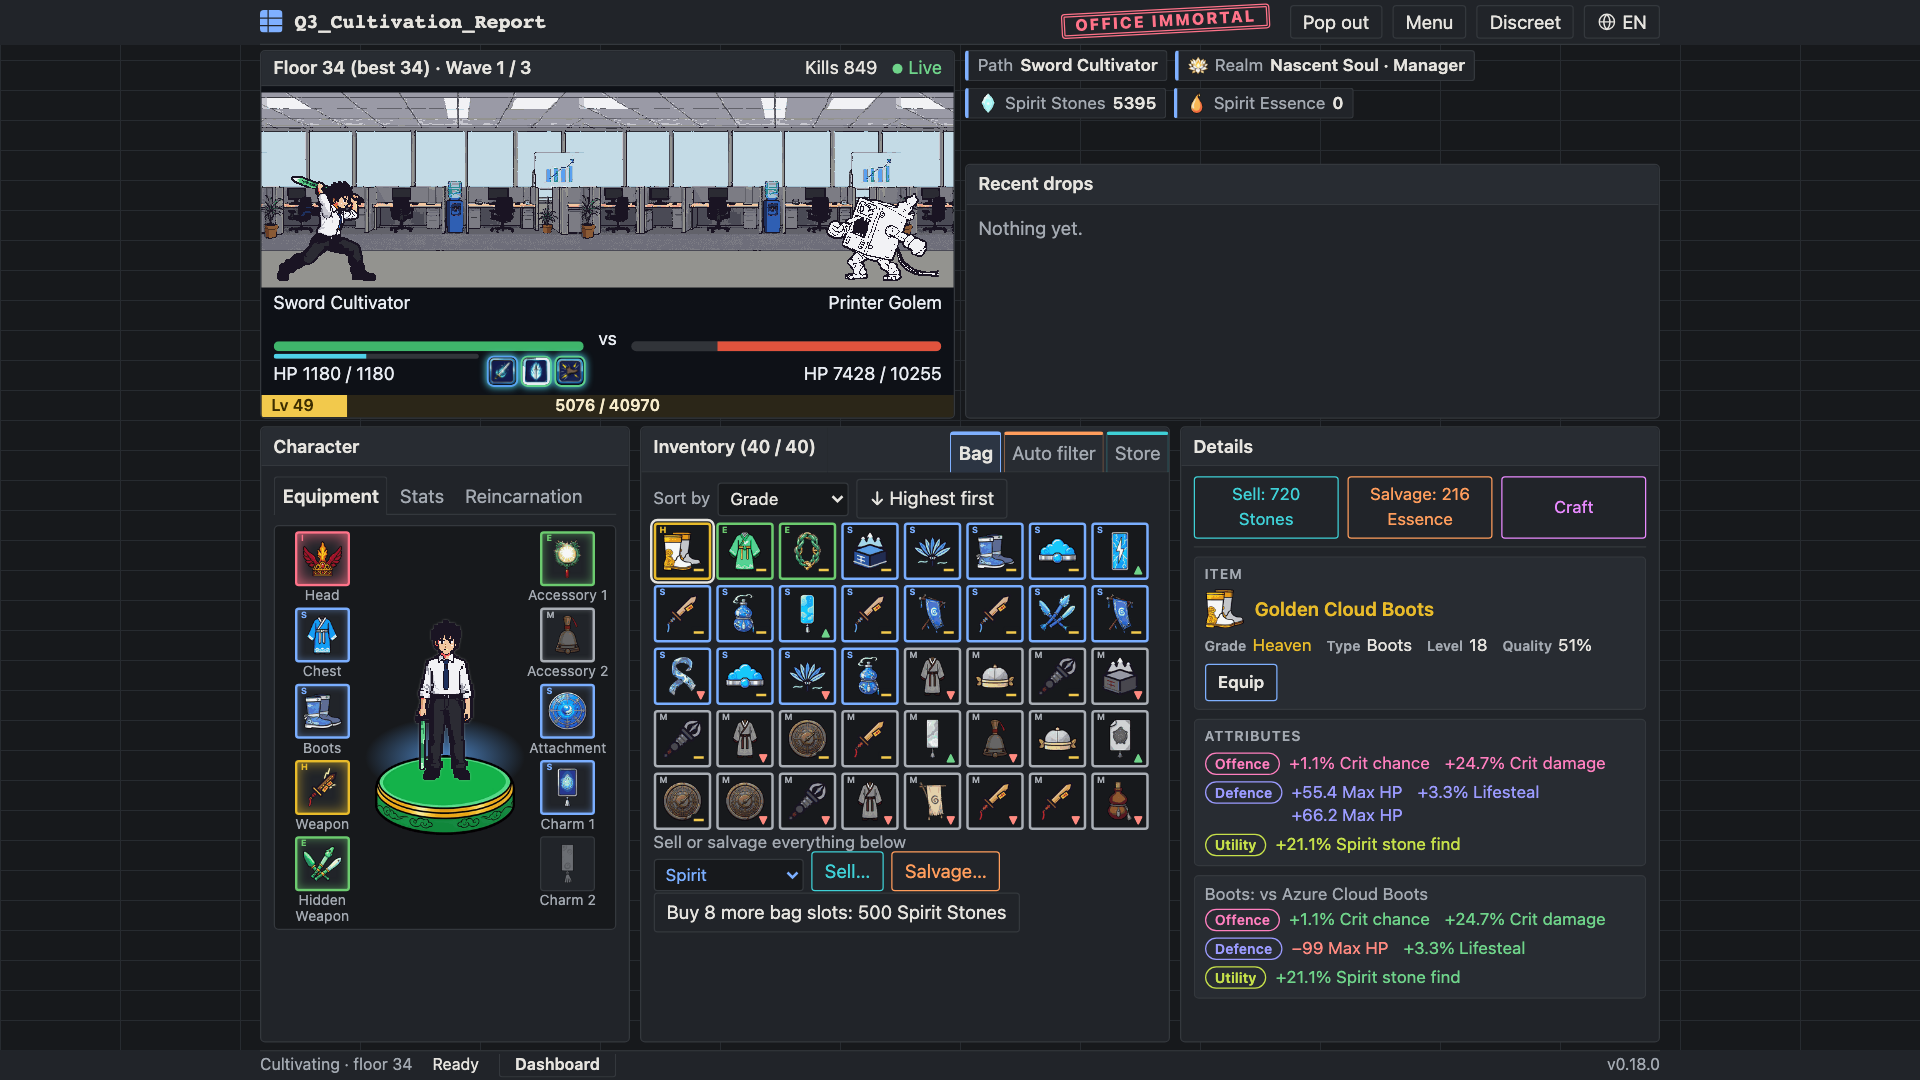
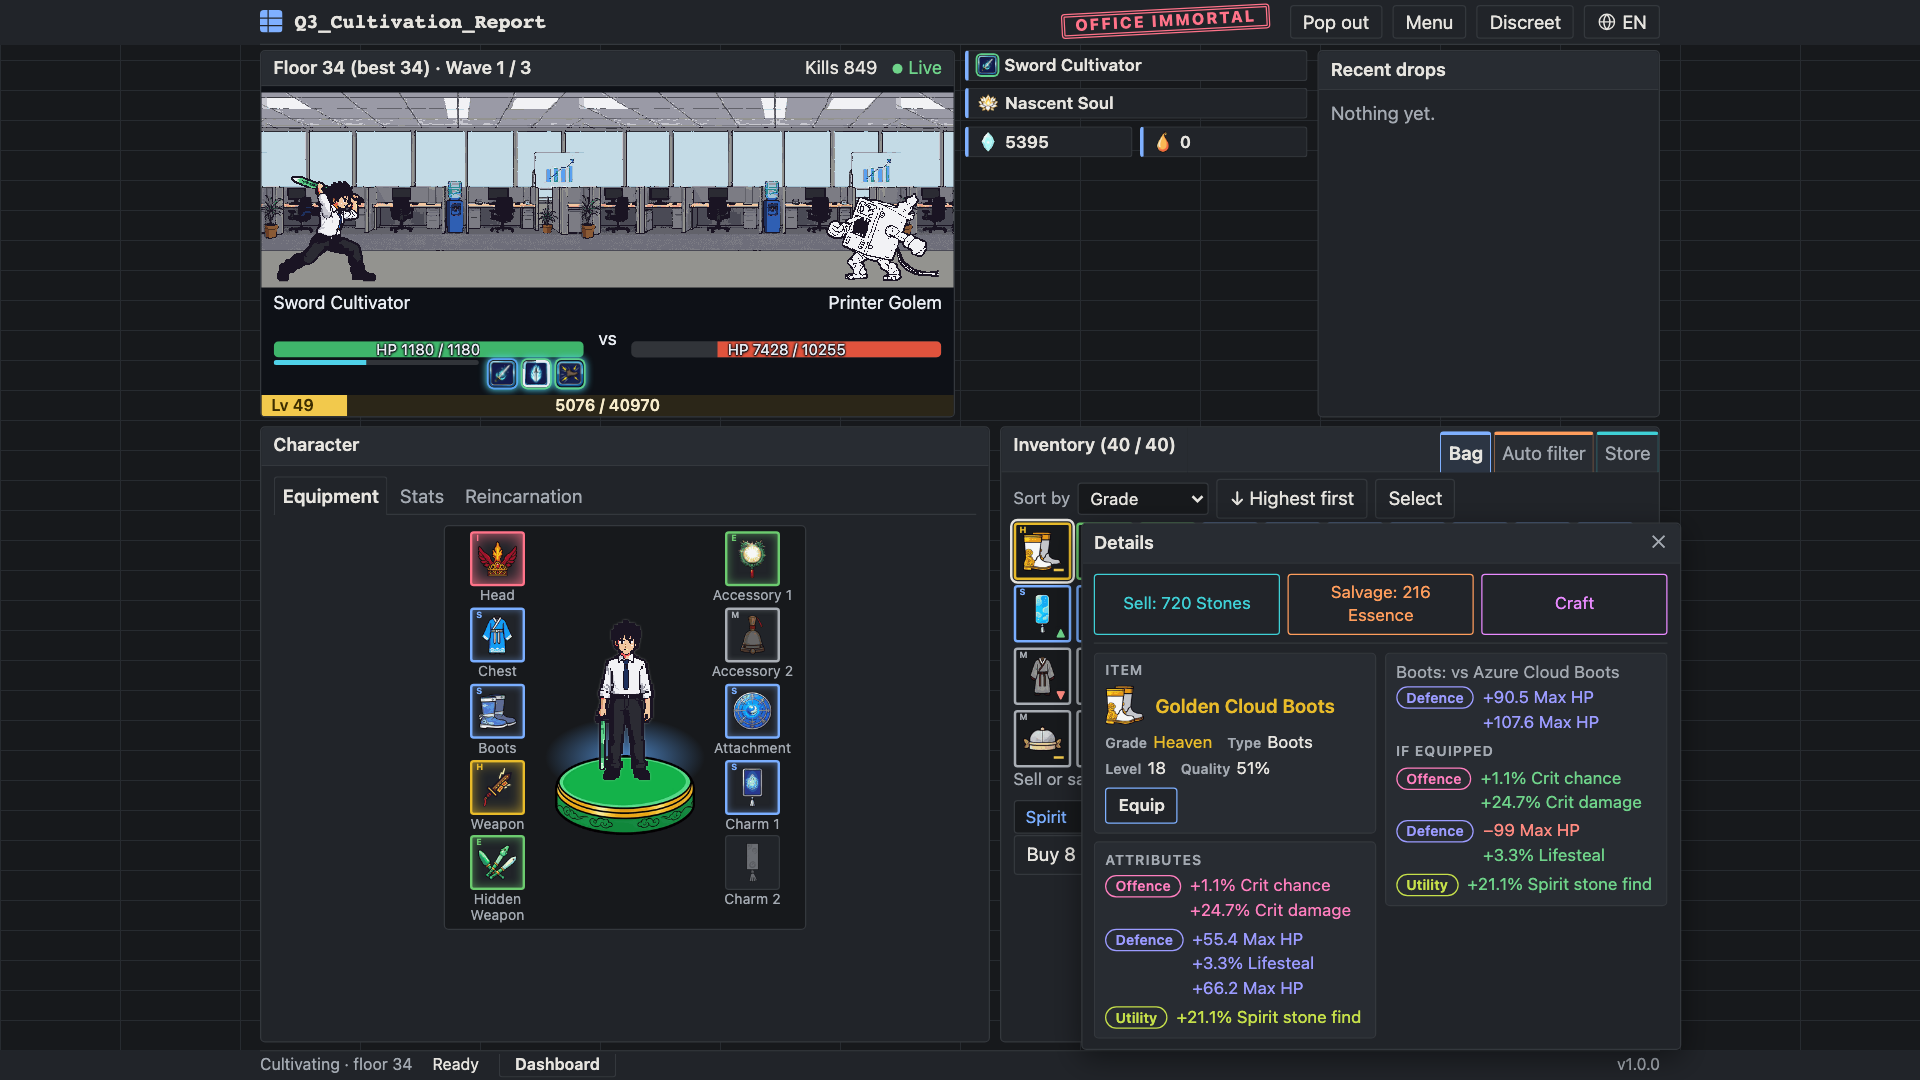
OI-087 Version 1.0.0 for the itch.io Public launch (#188)
- Version 1.0.0 in package.json and package-lock.json.
- README: play links for itch.io (released version) and GitHub Pages
  (latest main), a 1.0.0 status line, and the features shipped since the
  v1 build order (skills, Store, Discreet mode, English and Vietnamese,
  save backup). Release tag example is v1.0.0.
- Store screenshots and the auto-battle GIF retaken from the 1.0.0 build
  (they showed v0.18.0 and the old layout).
- Trailer script: the inventory scene clicks the bag's first column, which
  the item card leaves visible (it covered cell 9, so the click timed out).
  Filming stops even when a scene fails, so a late frame no longer crashes
  after the frame folder is removed and hides the scene's own error.

Refs #188 (closed by hand after the v1.0.0 release and the page goes Public)

diff --git a/tools/marketing/trailer.ts b/tools/marketing/trailer.ts
@@ -48,7 +48,8 @@ const SCENES: Scene[] = [
     save: 'inventory',
     seconds: 7,
     act: async (page) => {
-      for (const n of [0, 1, 9]) {
+      // The bag's first column (10 cells a row): the item card covers the rest.
+      for (const n of [0, 10, 20]) {
         await wait(1500);
         await page.locator('.bag .cell').nth(n).click();
       }
@@ -79,10 +80,15 @@ async function film(stage: Stage, scene: Scene, dir: string, n: number): Promise
     maxHeight: 1080,
   });
   const start = Date.now();
-  await scene.act?.(page);
-  await wait(scene.seconds * 1000 - (Date.now() - start));
-  await cdp.send('Page.stopScreencast');
-  await page.context().close();
+  // Stop filming even if the scene fails, so no late frame lands after the
+  // frame folder is removed and hides the scene's own error.
+  try {
+    await scene.act?.(page);
+    await wait(scene.seconds * 1000 - (Date.now() - start));
+  } finally {
+    await cdp.send('Page.stopScreencast').catch(() => {});
+    await page.context().close();
+  }
   if (frames.length < 2) throw new Error(`scene ${n}: no frames`);
 
   // Each frame shows until the next one arrived; the last for one frame time.

diff --git a/README.md b/README.md
@@ -7,34 +7,45 @@ at your desk: your cultivator fights up the floors of the office tower on
 their own while you work, and you check in to equip better treasures and
 break through to the next realm, from Intern to Immortal.
 
-**[Play it](https://danhquach.github.io/office-immortal/)**: the latest build
-from `main`, redeployed to GitHub Pages on every push to `main`.
+Play it:
+
+- **[On itch.io](https://bluezinger.itch.io/office-immortal)**: the released
+  version, uploaded for each version tag.
+- **[On GitHub Pages](https://danhquach.github.io/office-immortal/)**: the
+  latest build from `main`, redeployed on every push to `main`.
 
 ## Status
 
-The v1 build order in [`docs/design.md`](docs/design.md) (§13) is complete and
-playable: the simulation core ([#2]), loot ([#3]), the combat strip, character
-panel and inventory ([#4]), save and offline catch-up ([#5]), sell and salvage
-([#6]), realms and Tribulation ([#7]), Reincarnation ([#8]), the tab HUD,
-pop-out and notifications ([#9]), and the game art ([#15]).
+**Version 1.0.0** ([#188]) is the first public release. The v1 build order in
+[`docs/design.md`](docs/design.md) (§13) is complete: the simulation core
+([#2]), loot ([#3]), the combat strip, character panel and inventory ([#4]),
+save and offline catch-up ([#5]), sell and salvage ([#6]), realms and
+Tribulation ([#7]), Reincarnation ([#8]), the tab HUD, pop-out and
+notifications ([#9]), and the game art ([#15]). Skills, the Store, cloud save,
+Discreet mode and a Vietnamese translation shipped on top of it.
 
 No further features are planned yet. New work is tracked in
 [GitHub issues](https://github.com/danhquach/office-immortal/issues).
 
 ## Core loop
 
-All shipped on `main`:
+All shipped in 1.0.0:
 
 - **Solo cultivator** ([#2]). Pick a Path: Sword Cultivator, Body Refiner or
   Talisman Master.
 - **Auto-battle** ([#2], [#4]). Fight waves of office demons, an elite and a
   boss on each floor. Lose, and you drop back a floor to farm.
+- **Skills** ([#143]–[#148]). Each Path has four skills, learned and
+  upgraded at realm breakthroughs and auto-cast with Qi. Elites, bosses and
+  Tribulations have skills of their own.
 - **Rolled loot** ([#3]). Every treasure rolls its base stat, affixes and
   quality, in five grades from Mortal to Immortal.
 - **Sell and salvage** ([#6]). Sell what you don't want for Spirit Stones or
   melt it into Spirit Essence, by hand or with an auto filter.
 - **Crafting** ([#95]). Spend Spirit Essence to refine an item's base roll
   (its refine level shows as "+N") or reroll one of its affixes.
+- **Store** ([#123]). Spend Spirit Stones on gear chests and timed boosts from
+  a stock that rotates every 30 minutes.
 - **Realms** ([#7]). Climb ten realms from Qi Condensation (Intern) through
   Tribulation Transcendence (Chairman) to Immortal Ascension, with a
   Tribulation boss at each cap. Hover the Realm chip to see them all.
@@ -44,6 +55,11 @@ All shipped on `main`:
 - **Tab HUD** ([#9]). Status in the tab title and favicon, a pop-out mini
   window where the browser supports it, and an optional notification for
   Immortal drops and due Tribulations.
+- **Discreet mode** ([#124]). One click makes the page, tab and pop-out look
+  like a plain spreadsheet.
+- **English and Vietnamese** ([#67]). Pick the language in the title bar.
+- **Save backup** ([#84], [#63]). A save code to export and import, and an
+  optional cloud save shared between browsers (see below).
 
 ## Project layout
 
@@ -139,7 +155,7 @@ tool. Pushes to `main` still deploy only to GitHub
 Pages.
 
 ```bash
-git tag v0.2.0 && git push origin v0.2.0
+git tag v1.0.0 && git push origin v1.0.0
 ```
 
 The tag must name the version on that commit (`package.json`, shown in the
@@ -229,4 +245,12 @@ repo). itch.io embeds only YouTube or Vimeo, so after making it:
 [#8]: https://github.com/danhquach/office-immortal/issues/8
 [#9]: https://github.com/danhquach/office-immortal/issues/9
 [#15]: https://github.com/danhquach/office-immortal/issues/15
+[#63]: https://github.com/danhquach/office-immortal/issues/63
+[#67]: https://github.com/danhquach/office-immortal/issues/67
+[#84]: https://github.com/danhquach/office-immortal/issues/84
 [#95]: https://github.com/danhquach/office-immortal/issues/95
+[#123]: https://github.com/danhquach/office-immortal/issues/123
+[#124]: https://github.com/danhquach/office-immortal/issues/124
+[#143]: https://github.com/danhquach/office-immortal/issues/143
+[#148]: https://github.com/danhquach/office-immortal/issues/148
+[#188]: https://github.com/danhquach/office-immortal/issues/188
